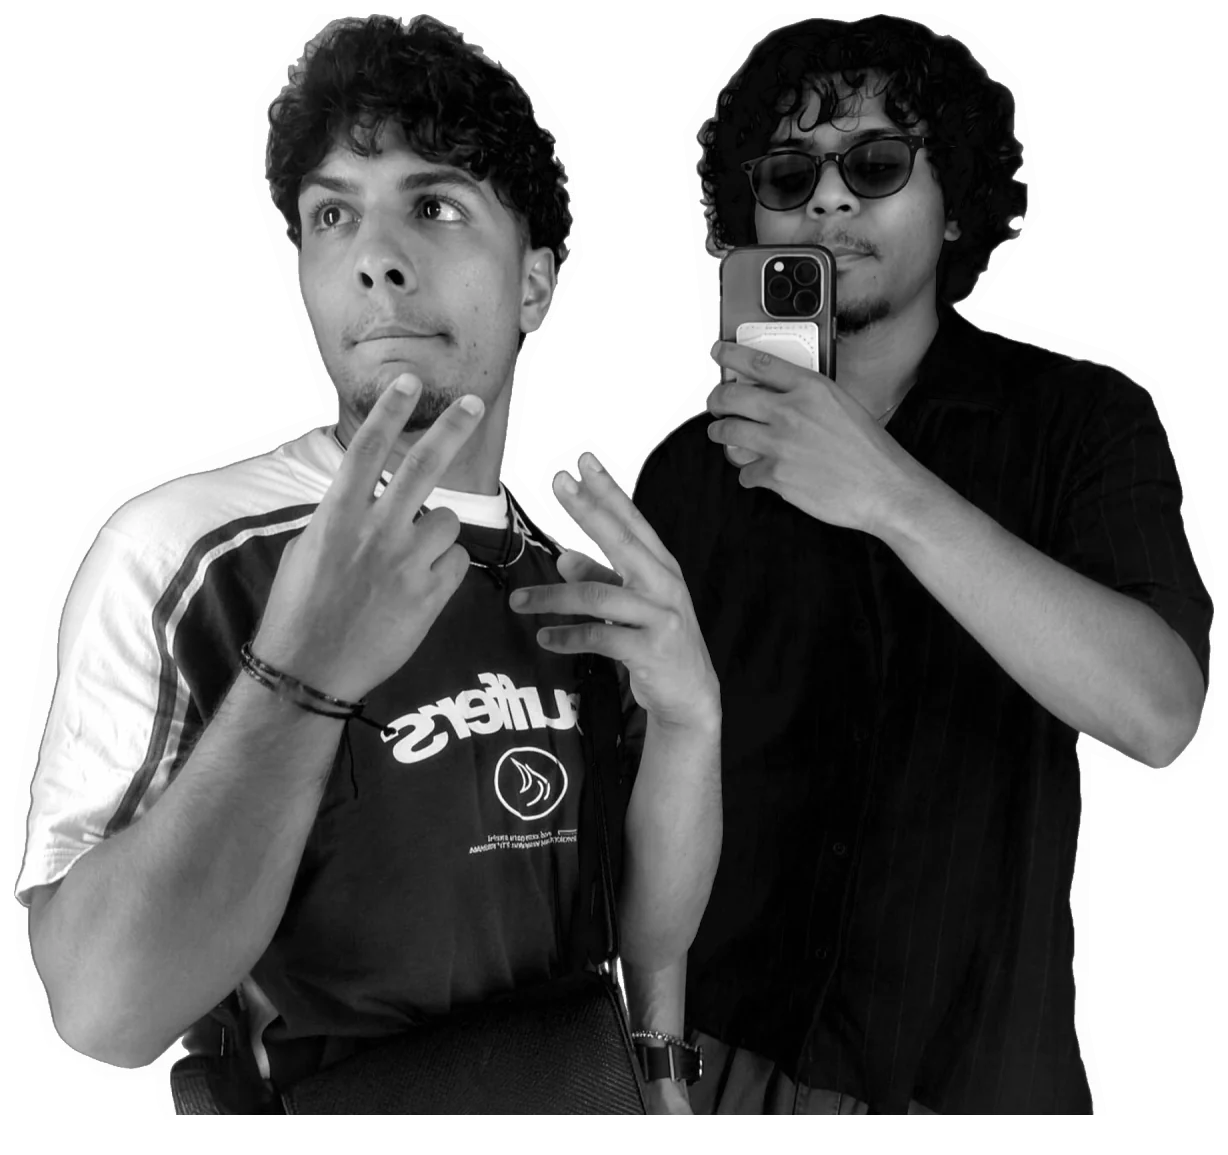
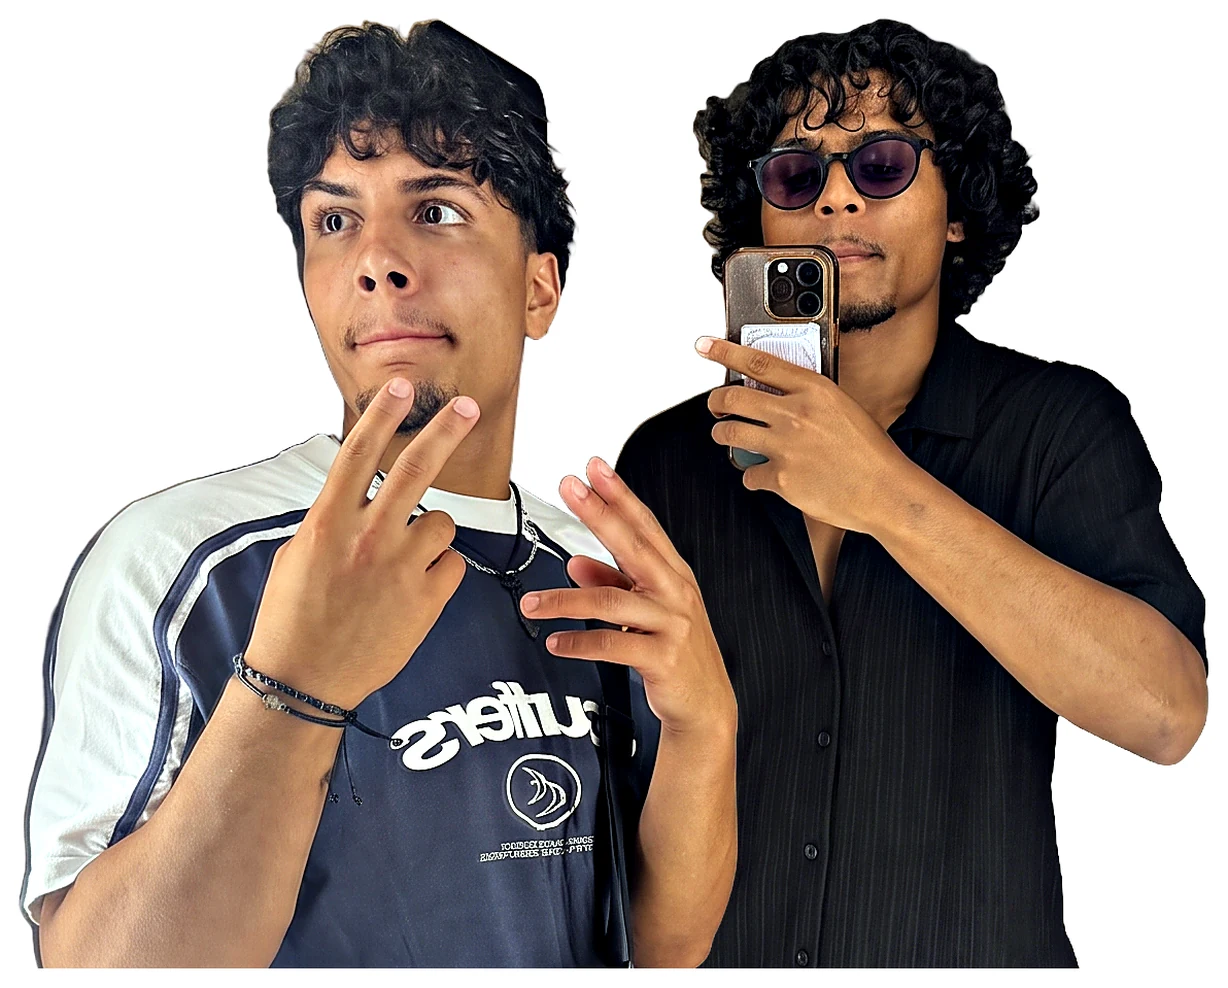
The founder image, rebuilt in colour from the original photograph
Rahaid sent the original lift selfie after the canon correction, and
authorised an AI pass over it.

THE PIPELINE, following MKT-BRD-006's build record:
1. Plate edit (gpt_image_2, 2k/high): removed Kofi, the two handrail bars and
   the glass haze over the right of the frame, naming every part that had to
   stay pixel-identical and forbidding any crop or zoom — the note's own
   hard-won lesson.
2. Outpaint to 4:3. Both men touched the frame edge, so Diego's elbow and
   Rahaid's right arm were being clipped by the photograph's own border —
   which is exactly what Rahaid flagged. The outpaint gave both clearance.
3. Matte at full resolution on the service model rather than locally.
4. Composite: Rahaid lifted 172px to level the head tops (lifted, not scaled —
   he is behind, and the smaller head IS the perspective), shifted 353px left
   for the same proportional overlap as the approved layout, Diego in front.
5. Cut at row 1086 + 46 — MEASURED as the last row Diego's bent arm reaches
   its leftmost, not eyeballed and not an aspect ratio, which is what the
   first attempt got wrong.
6. Grade, then the white sticker band closed all the way round including
   under the cut edge.

WHY THE LOCAL ROUTE FAILED, since it cost an hour. rembg was installed and run
three ways on the raw photo. Diego matted at 67% solid; Rahaid at 1.4% solid
and 75% ghost, because the lift's glass panel sits over him. Measured, not
[…]

diff --git a/about.html b/about.html
@@ -442,7 +442,7 @@
       <span class="duo-paper" aria-hidden="true"></span>
       <picture>
         <source srcset="assets/about/founders-1200.webp" type="image/webp">
-        <img src="assets/about/founders-1200.png" alt="Diego and Law, the two founders of KaizenEvol" width="1228" height="1155" decoding="async" loading="lazy">
+        <img src="assets/about/founders-1200.png" alt="Diego and Law, the two founders of KaizenEvol" width="1228" height="988" decoding="async" loading="lazy">
       </picture>
       <span class="duo-badge" aria-hidden="true"><b>Two founders</b><span>no account manager</span></span>
       <figcaption class="duo-credit">
